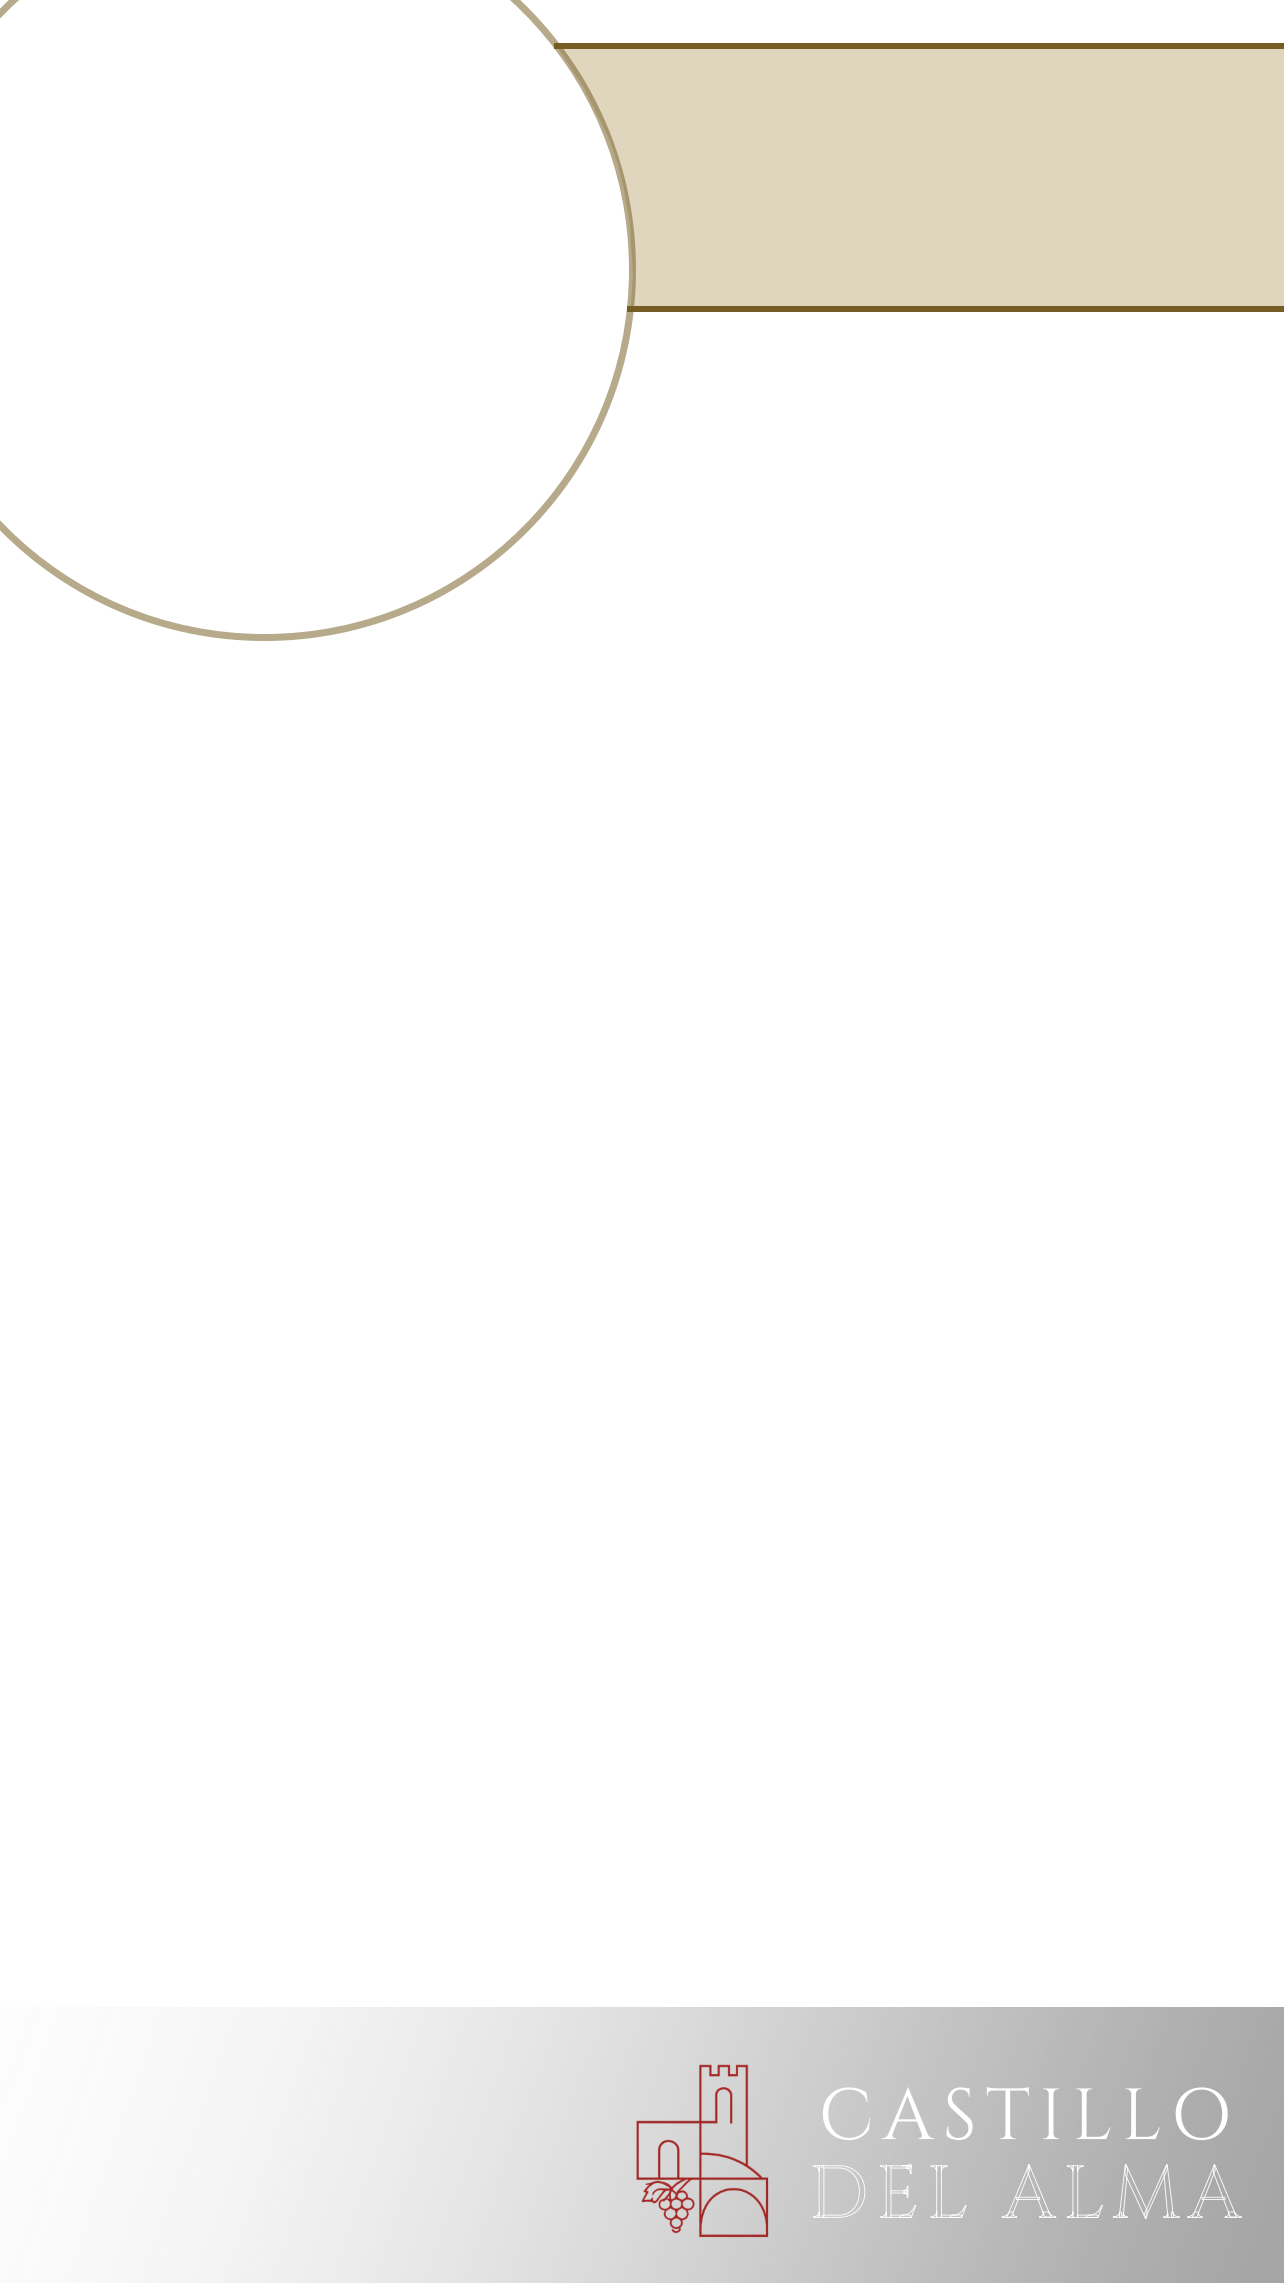
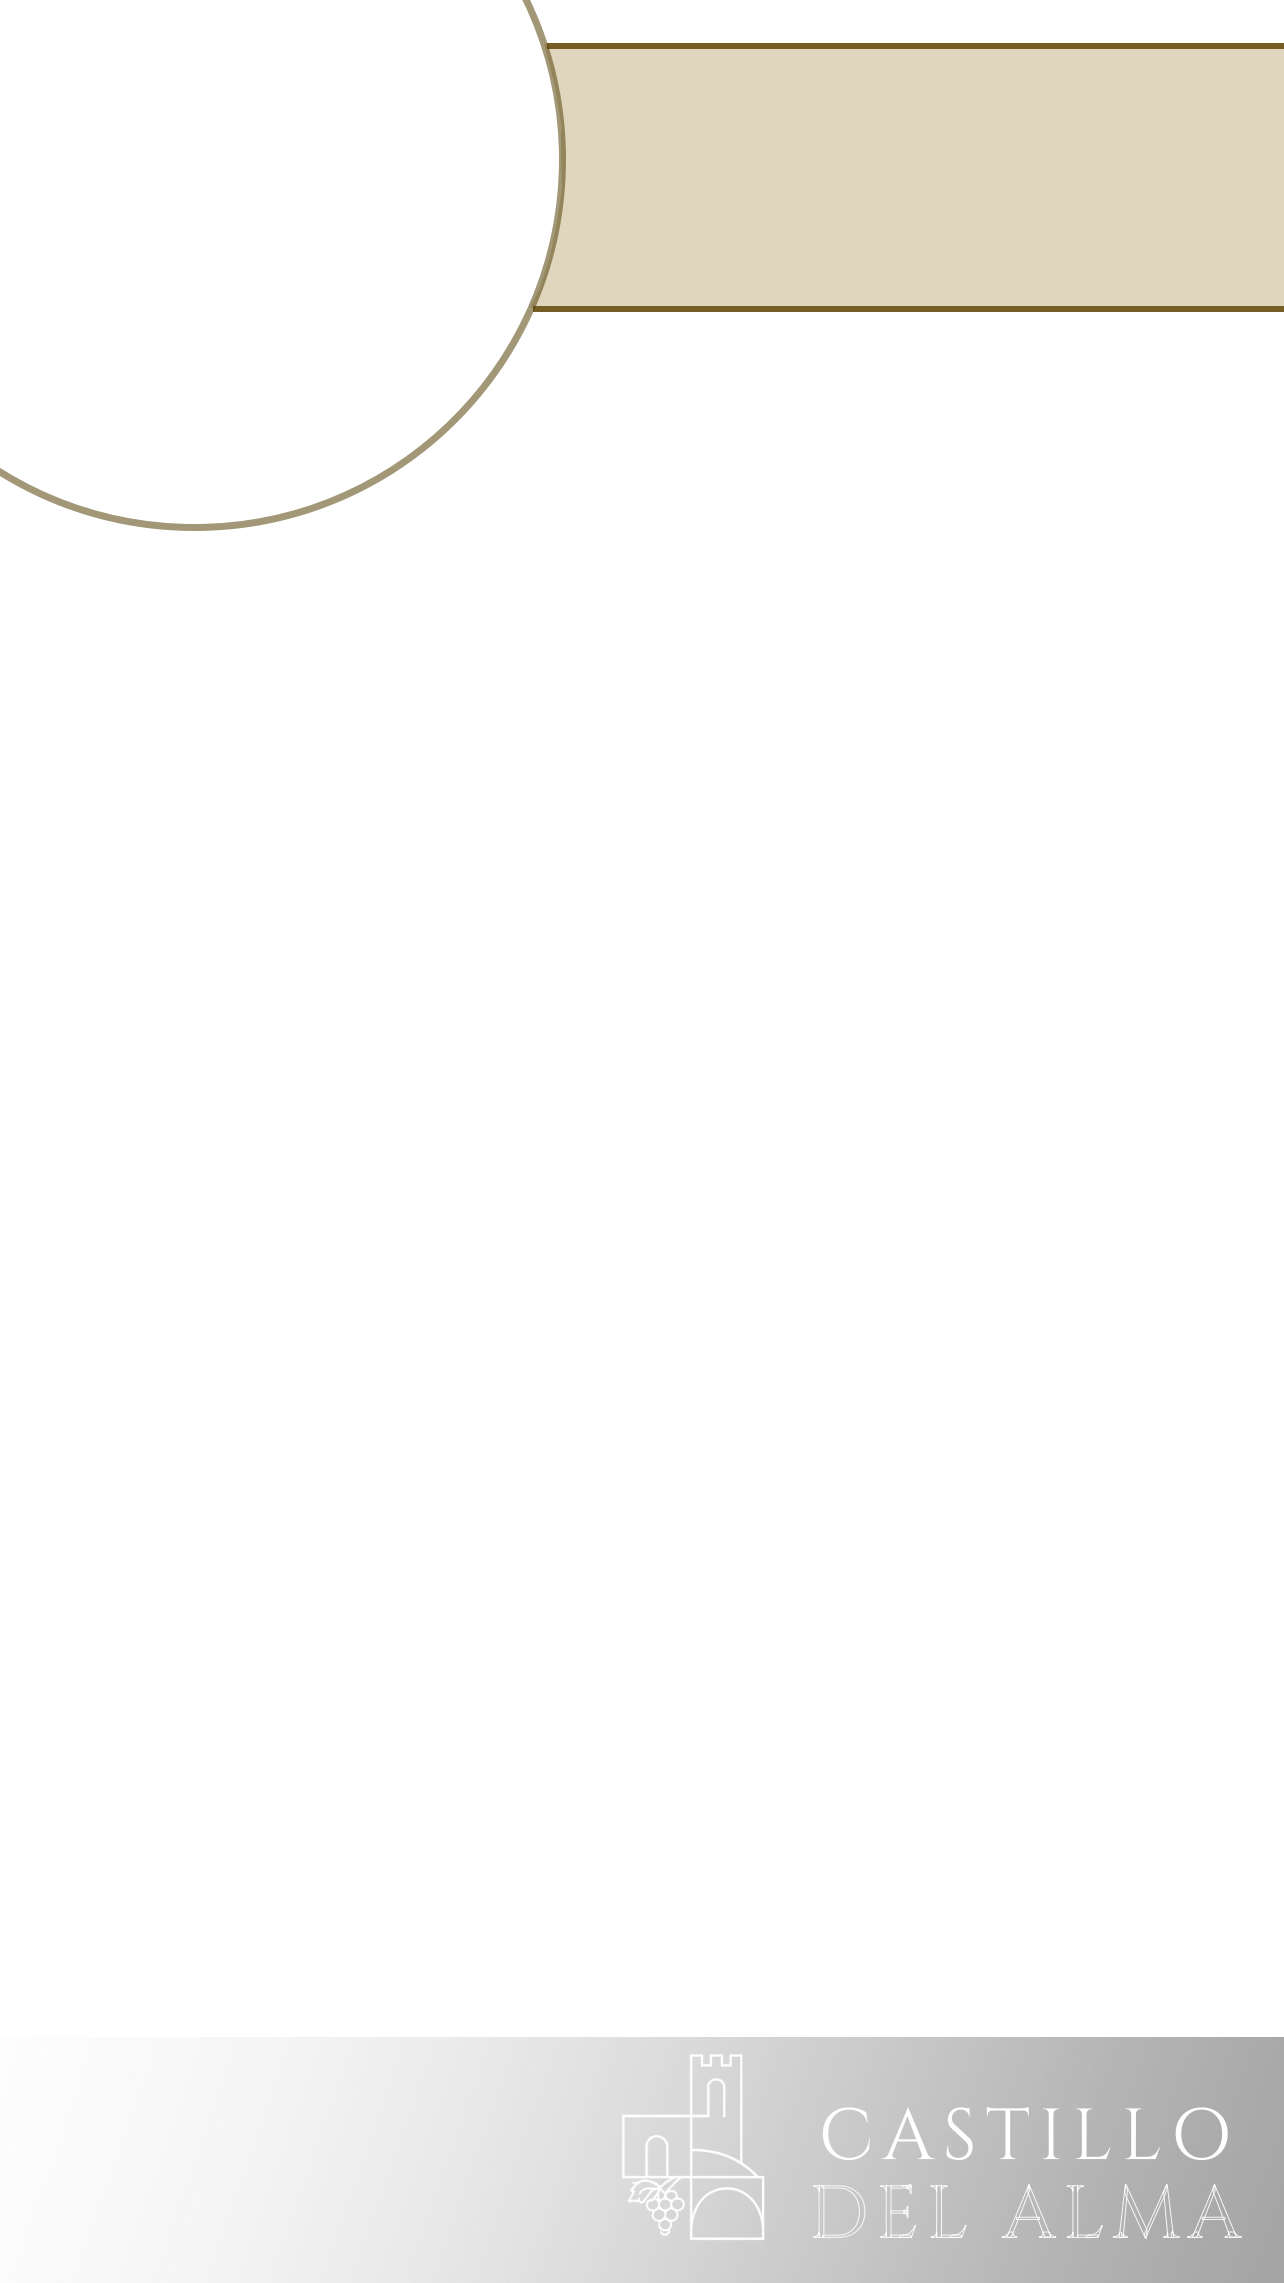
Video-tekster: nyt cirkel-overlay + opdaterede cirkel-koordinater (194.1, 159.3)

diff --git a/video-tekster.html b/video-tekster.html
@@ -569,9 +569,9 @@ const FR_TEMPLATES = {
 };
 const FR_DEFAULT_URL = FR_TEMPLATES.standard;
 /* Cirklens geometri i cirkel-skabelonen (målt i 1284×2283-filen):
-   center (263.9, 269.6), maskeradius 366 px (midt i den 8 px guldring,
+   center (194.1, 159.3), maskeradius 366 px (midt i den 8 px guldring,
    så fotoet stikker ind under ringen uden synlig sprække). */
-const FR_CIRC = { cx: 263.9 / 1284, cy: 269.6 / 2283, r: 366 / 1284 };
+const FR_CIRC = { cx: 194.1 / 1284, cy: 159.3 / 2283, r: 366 / 1284 };
 const FR_FONTS = {
   cinzel:    { css: 'Cinzel',              weight: 700 },
   cormorant: { css: 'Cormorant Garamond',  weight: 600 },
